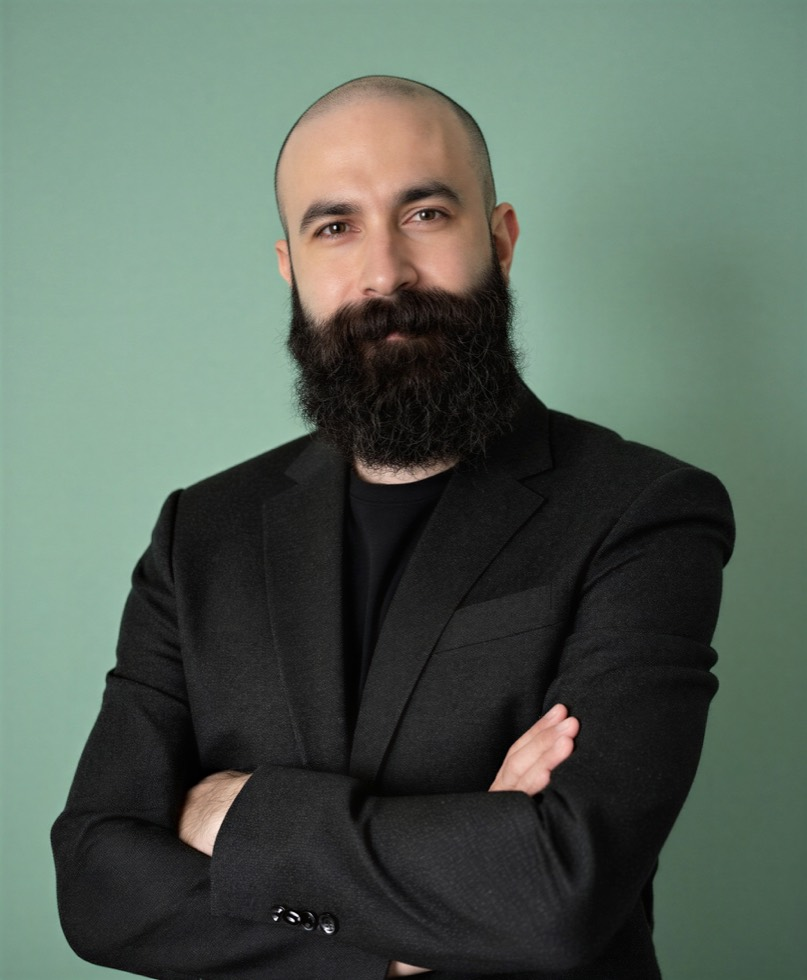
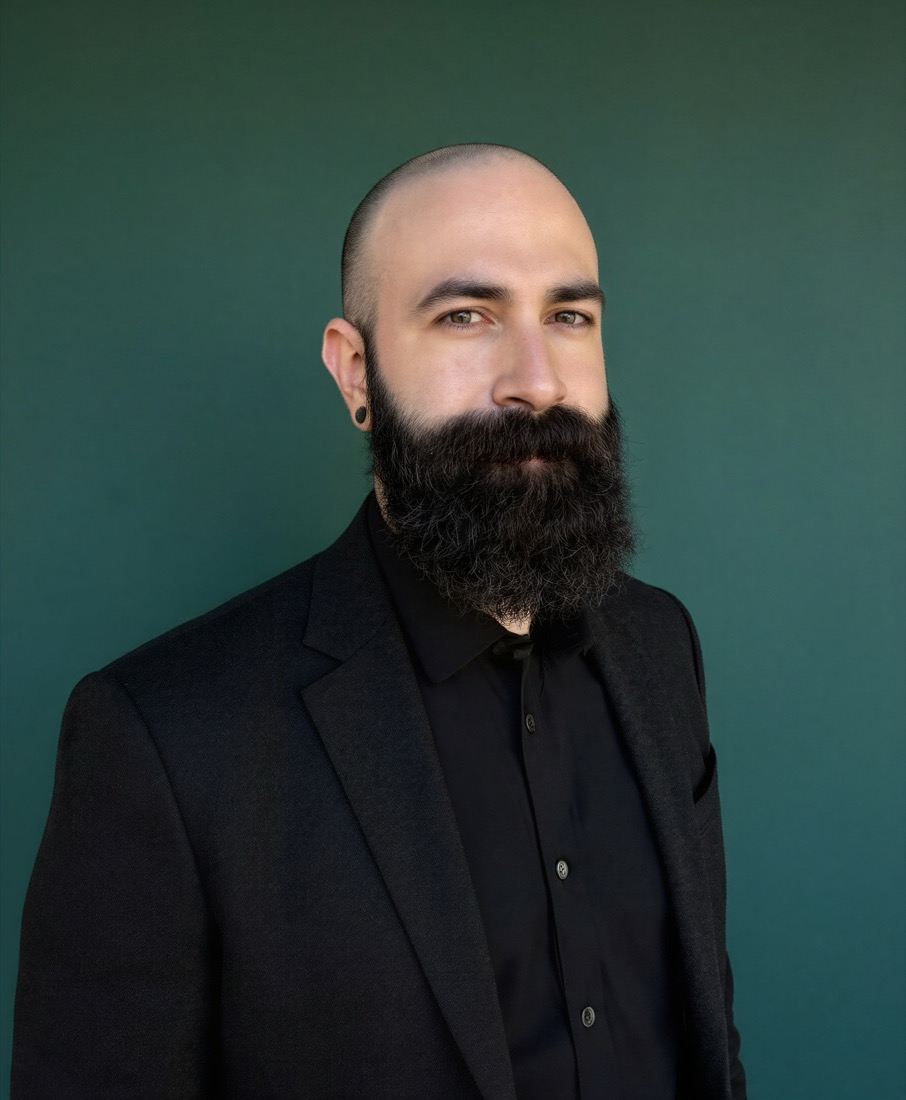
Use selected hero portrait

diff --git a/styles.css b/styles.css
@@ -293,7 +293,7 @@ h3 {
 .portrait-frame img {
   display: block;
   width: 100%;
-  aspect-ratio: 4 / 5;
+  aspect-ratio: 906 / 1100;
   object-fit: cover;
   object-position: center;
   border: 1px solid rgba(241, 232, 215, 0.18);
@@ -648,7 +648,7 @@ blockquote {
   }
 
   .portrait-frame {
-    width: min(100%, 360px);
+    width: min(100%, 340px);
     margin-inline: auto;
   }
 

diff --git a/index.html b/index.html
@@ -38,7 +38,7 @@
       </div>
       <aside class="hero-portrait" aria-label="Portrait of Jason LM">
         <figure class="portrait-frame">
-          <img src="/assets/jason-lm-portrait.jpg" alt="Jason LM" width="960" height="1200" />
+          <img src="/assets/jason-lm-portrait.jpg" alt="Jason LM" width="906" height="1100" />
           <figcaption>
             <span>AI-first, human-led</span>
             <strong>Executive Director, Dyrenes Alliance</strong>